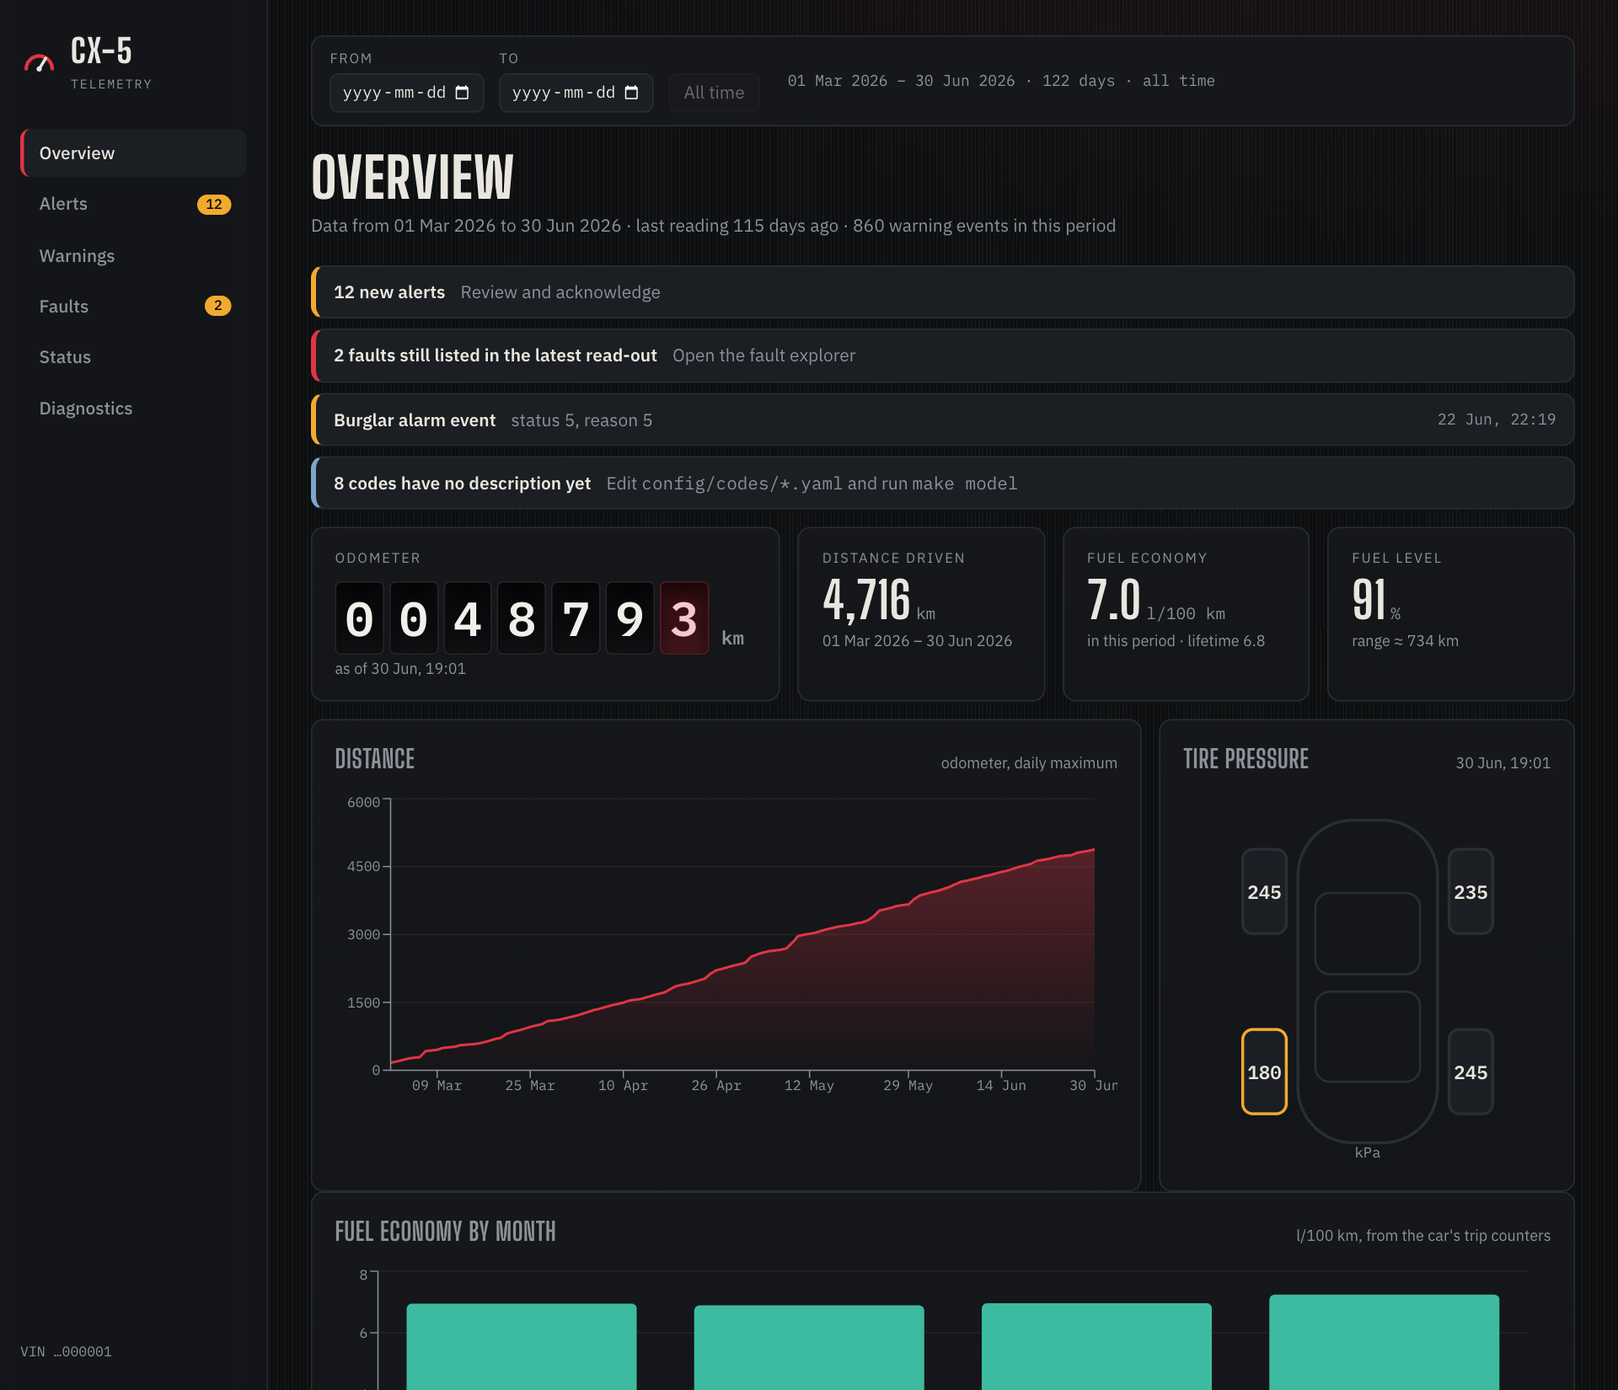
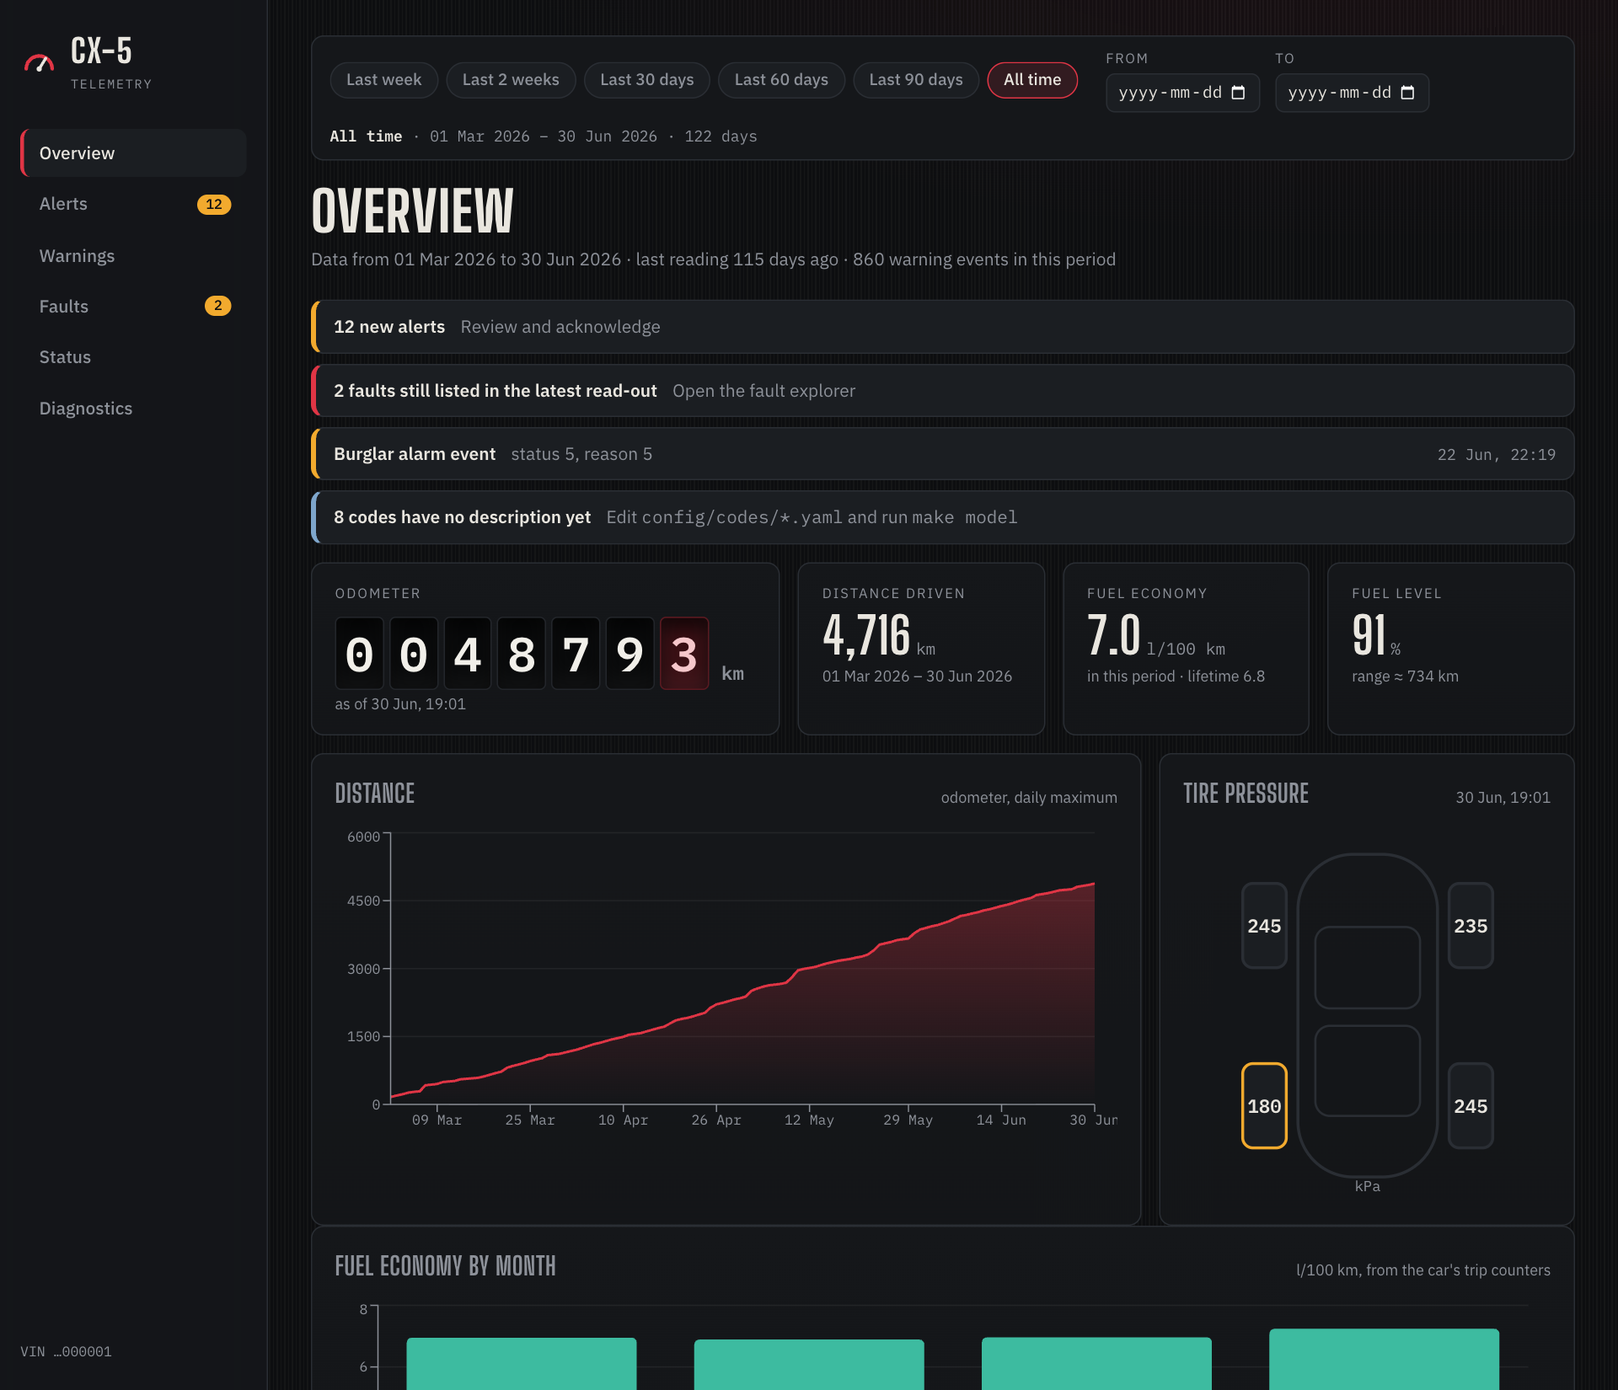
Changes related to milestone 9

diff --git a/frontend/src/components/DateRangeBar.tsx b/frontend/src/components/DateRangeBar.tsx
@@ -1,10 +1,18 @@
 import { useOverview, useSpan } from '../api/hooks'
-import { daysInRange, editRange, fmtDate } from '../lib'
-import { useDateRange } from '../range'
+import {
+  PRESETS,
+  daysInRange,
+  editRange,
+  fmtDate,
+  matchPreset,
+  resolvePreset,
+  type PresetId,
+} from '../lib'
+import { saveRangeChoice, useDateRange } from '../range'
 
 /** Period picker shown on the pages that describe a period. The range lives in the URL. */
 export function DateRangeBar() {
-  const { from, to, isFiltered, setRange, clear } = useDateRange()
+  const { from, to, isFiltered, setRange } = useDateRange()
   const span = useSpan().data
   const overview = useOverview().data
 
@@ -13,9 +21,35 @@ export function DateRangeBar() {
   const shownFrom = from ?? first
   const shownTo = to ?? last
   const days = shownFrom && shownTo ? daysInRange(shownFrom, shownTo) : undefined
+  const active = matchPreset({ from, to }, first, last)
+  const activeLabel = PRESETS.find((p) => p.id === active)?.label
+
+  const choose = (id: PresetId) => {
+    saveRangeChoice(id)
+    setRange(first && last ? resolvePreset(id, first, last) : {})
+  }
+  const edit = (which: 'from' | 'to', value: string) => {
+    saveRangeChoice('custom')
+    setRange(editRange({ from, to }, which, value))
+  }
 
   return (
     <div className="range-bar" role="group" aria-label="Period">
+      <fieldset className="presets" disabled={!span}>
+        <legend className="sr-only">Quick ranges, counted back from the newest data</legend>
+        {PRESETS.map((p) => (
+          <label key={p.id} className="preset">
+            <input
+              type="radio"
+              name="preset"
+              checked={active === p.id}
+              onChange={() => choose(p.id)}
+            />
+            <span>{p.label}</span>
+          </label>
+        ))}
+      </fieldset>
+
       <div className="range-inputs">
         <label>
           From
@@ -24,8 +58,7 @@ export function DateRangeBar() {
             value={from ?? ''}
             min={first}
             max={last}
-            placeholder={first}
-            onChange={(e) => setRange(editRange({ from, to }, 'from', e.target.value))}
+            onChange={(e) => edit('from', e.target.value)}
           />
         </label>
         <label>
@@ -35,29 +68,26 @@ export function DateRangeBar() {
             value={to ?? ''}
             min={first}
             max={last}
-            placeholder={last}
-            onChange={(e) => setRange(editRange({ from, to }, 'to', e.target.value))}
+            onChange={(e) => edit('to', e.target.value)}
           />
         </label>
-        <button onClick={clear} disabled={!isFiltered}>
-          All time
-        </button>
       </div>
-      <div className="range-summary mono">
+
+      <div className="range-summary mono" aria-live="polite">
         {shownFrom && shownTo ? (
           <>
-            {fmtDate(shownFrom)} – {fmtDate(shownTo)}
+            <b>{activeLabel ?? 'Custom range'}</b> · {fmtDate(shownFrom)} – {fmtDate(shownTo)}
             {days !== undefined && ` · ${days} day${days === 1 ? '' : 's'}`}
-            {!isFiltered && ' · all time'}
           </>
         ) : (
           'no data yet'
         )}
       </div>
+
       {isFiltered && overview && !overview.has_data_in_range && (
         <div className="range-empty" role="status">
           No data in this period. The data covers {fmtDate(first)} – {fmtDate(last)}.{' '}
-          <button onClick={clear}>Show all time</button>
+          <button onClick={() => choose('all')}>Show all time</button>
         </div>
       )}
     </div>

diff --git a/frontend/src/lib.test.ts b/frontend/src/lib.test.ts
@@ -1,11 +1,15 @@
 import { describe, expect, it } from 'vitest'
 import {
+  addDays,
   daysInRange,
   editRange,
   fmtAgo,
   fmtNum,
+  matchPreset,
   parseDay,
   pivotDaily,
+  resolvePreset,
+  restoreRange,
   sanitizeRange,
   signalLabel,
   signalValue,
@@ -91,5 +95,64 @@ describe('date range', () => {
     expect(editRange(r, 'from', '2026-06-01')).toEqual({ from: '2026-06-01', to: '2026-06-01' })
     expect(editRange(r, 'to', '2026-05-01')).toEqual({ from: '2026-05-01', to: '2026-05-01' })
     expect(editRange(r, 'to', '')).toEqual({ from: '2026-05-10', to: undefined })
+  })
+})
+
+describe('quick ranges', () => {
+  const first = '2026-03-01'
+  const last = '2026-10-22'
+
+  it('does calendar arithmetic across month, year and leap-day boundaries', () => {
+    expect(addDays('2026-03-01', -1)).toBe('2026-02-28')
+    expect(addDays('2024-03-01', -1)).toBe('2024-02-29')
+    expect(addDays('2025-12-31', 1)).toBe('2026-01-01')
+    expect(addDays('2026-10-22', -29)).toBe('2026-09-23')
+    expect(addDays('2026-03-29', 1)).toBe('2026-03-30') // across a clock change
+  })
+
+  it('counts back from the latest data day, both ends included', () => {
+    expect(resolvePreset('30d', first, last)).toEqual({ from: '2026-09-23', to: last })
+    expect(daysInRange('2026-09-23', last)).toBe(30)
+    expect(resolvePreset('week', first, last)).toEqual({ from: '2026-10-16', to: last })
+    expect(resolvePreset('fortnight', first, last)).toEqual({ from: '2026-10-09', to: last })
+    expect(resolvePreset('60d', first, last)).toEqual({ from: '2026-08-24', to: last })
+    expect(resolvePreset('90d', first, last)).toEqual({ from: '2026-07-25', to: last })
+  })
+
+  it('works when the window crosses a month or year end', () => {
+    expect(resolvePreset('30d', '2025-01-01', '2026-01-10')).toEqual({ from: '2025-12-12', to: '2026-01-10' })
+    expect(resolvePreset('week', '2026-01-01', '2026-03-03')).toEqual({ from: '2026-02-25', to: '2026-03-03' })
+  })
+
+  it('never starts before the first day with data', () => {
+    expect(resolvePreset('90d', '2026-10-01', last)).toEqual({ from: '2026-10-01', to: last })
+    expect(resolvePreset('week', '2026-10-20', last)).toEqual({ from: '2026-10-20', to: last })
+  })
+
+  it('treats All time as no bounds', () => {
+    expect(resolvePreset('all', first, last)).toEqual({})
+  })
+
+  it('recognises which preset a range is', () => {
+    expect(matchPreset({}, first, last)).toBe('all')
+    expect(matchPreset({ from: '2026-09-23', to: last }, first, last)).toBe('30d')
+    expect(matchPreset({ from: '2026-09-24', to: last }, first, last)).toBeUndefined() // custom
+    expect(matchPreset({ from: '2026-09-23' }, first, last)).toBeUndefined() // open end
+    expect(matchPreset({ from: '2026-09-23', to: last })).toBeUndefined() // span not loaded
+  })
+
+  it('picks the shortest preset when the data is shorter than several of them', () => {
+    // five days of data: every preset resolves to the whole span
+    const short = resolvePreset('90d', '2026-10-18', last)
+    expect(matchPreset(short, '2026-10-18', last)).toBe('week')
+  })
+
+  it('restores only a saved rolling preset, never all-time, custom or junk', () => {
+    expect(restoreRange('30d', first, last)).toEqual({ from: '2026-09-23', to: last })
+    expect(restoreRange('all', first, last)).toBeUndefined()
+    expect(restoreRange('custom', first, last)).toBeUndefined()
+    expect(restoreRange('nonsense', first, last)).toBeUndefined()
+    expect(restoreRange(null, first, last)).toBeUndefined()
+    expect(restoreRange('30d', null, null)).toBeUndefined() // no data yet
   })
 })

diff --git a/frontend/src/lib.ts b/frontend/src/lib.ts
@@ -157,3 +157,56 @@ export function editRange(range: DayRange, edited: 'from' | 'to', value: string)
   if (day && edited === 'to' && next.from && day < next.from) next.from = day
   return next
 }
+
+// ---- quick ranges ----
+// Presets count back from the most recent day with data, not from today: an export is a
+// snapshot, so "last 30 days" counted from today would be empty a few weeks after the export.
+
+export type PresetId = 'week' | 'fortnight' | '30d' | '60d' | '90d' | 'all'
+
+export const PRESETS: { id: PresetId; label: string; days: number | null }[] = [
+  { id: 'week', label: 'Last week', days: 7 },
+  { id: 'fortnight', label: 'Last 2 weeks', days: 14 },
+  { id: '30d', label: 'Last 30 days', days: 30 },
+  { id: '60d', label: 'Last 60 days', days: 60 },
+  { id: '90d', label: 'Last 90 days', days: 90 },
+  { id: 'all', label: 'All time', days: null },
+]
+
+/** `day` shifted by `delta` calendar days (UTC, so daylight saving cannot interfere). */
+export function addDays(day: string, delta: number): string {
+  return new Date(Date.parse(`${day}T00:00:00Z`) + delta * 86_400_000).toISOString().slice(0, 10)
+}
+
+/**
+ * The range a preset stands for: its last `days` days ending on the latest day with data,
+ * never starting before the first day with data. "All time" has no bounds.
+ */
+export function resolvePreset(id: PresetId, first: string, last: string): DayRange {
+  const days = PRESETS.find((p) => p.id === id)?.days
+  if (!days) return {}
+  const start = addDays(last, -(days - 1))
+  return { from: start < first ? first : start, to: last }
+}
+
+/**
+ * Which preset the current range is, if any. A range without bounds is "All time". Otherwise
+ * the shortest preset that resolves to exactly these days wins (with very little data several
+ * presets coincide); anything else is a custom range.
+ */
+export function matchPreset(range: DayRange, first?: string, last?: string): PresetId | undefined {
+  if (!range.from && !range.to) return 'all'
+  if (!first || !last) return undefined
+  return PRESETS.find((p) => {
+    if (p.id === 'all') return false
+    const r = resolvePreset(p.id, first, last)
+    return r.from === range.from && r.to === range.to
+  })?.id
+}
+
+/** What to restore on load from the saved choice: only presets are rolling and worth keeping. */
+export function restoreRange(saved: string | null, first?: string | null, last?: string | null): DayRange | undefined {
+  const preset = PRESETS.find((p) => p.id === saved)
+  if (!preset || preset.id === 'all' || !first || !last) return undefined
+  return resolvePreset(preset.id, first, last)
+}

diff --git a/frontend/src/range.ts b/frontend/src/range.ts
@@ -1,6 +1,7 @@
-import { useMemo } from 'react'
+import { useEffect, useMemo, useRef } from 'react'
 import { useSearchParams } from 'react-router-dom'
-import { sanitizeRange, type DayRange } from './lib'
+import { useSpan } from './api/hooks'
+import { restoreRange, sanitizeRange, type DayRange, type PresetId } from './lib'
 
 /**
  * The selected period lives in the address (`?from=2026-06-12&to=2026-07-12`) so that a view can
@@ -36,4 +37,42 @@ export function useRangeSearch(): string {
   if (to) p.set('to', to)
   const s = p.toString()
   return s ? `?${s}` : ''
+}
+
+const STORAGE_KEY = 'cx5.range'
+
+/** The last choice: a preset id, or 'custom' for typed dates (dates would be stale next time). */
+export function saveRangeChoice(choice: PresetId | 'custom'): void {
+  try {
+    localStorage.setItem(STORAGE_KEY, choice)
+  } catch {
+    /* storage can be blocked (private window); the app works without it */
+  }
+}
+
+function loadRangeChoice(): string | null {
+  try {
+    return localStorage.getItem(STORAGE_KEY)
+  } catch {
+    return null
+  }
+}
+
+/**
+ * On the first load without a period in the address, bring back the last preset the user chose
+ * (counted from the newest data, so "Last 30 days" still means the newest 30 days after a new
+ * export). Runs once, so choosing "All time" afterwards is not undone.
+ */
+export function useRestoreSavedRange() {
+  const { isFiltered, setRange } = useDateRange()
+  const span = useSpan().data
+  const done = useRef(false)
+
+  useEffect(() => {
+    if (done.current || !span) return
+    done.current = true
+    if (isFiltered) return // a shared or bookmarked address wins over the saved choice
+    const restored = restoreRange(loadRangeChoice(), span.first_day, span.last_day)
+    if (restored) setRange(restored)
+  }, [span, isFiltered, setRange])
 }

diff --git a/frontend/src/index.css b/frontend/src/index.css
@@ -240,5 +240,19 @@ input[type='date'] {
   font: inherit; font-family: var(--mono); font-size: 13px; color: var(--text); background: var(--panel-2);
   border: 1px solid var(--line); border-radius: 7px; padding: 4px 8px; color-scheme: inherit;
 }
-.range-summary { font-size: 12px; color: var(--muted); }
+.range-summary { font-size: 12px; color: var(--muted); flex-basis: 100%; }
+.range-summary b { color: var(--text); font-weight: 600; }
+.sr-only { position: absolute; width: 1px; height: 1px; margin: -1px; padding: 0; overflow: hidden; clip: rect(0 0 0 0); border: 0; white-space: nowrap; }
+fieldset.presets { display: flex; flex-wrap: wrap; gap: 6px; border: 0; margin: 0; padding: 0; min-width: 0; }
+.preset { position: relative; cursor: pointer; }
+.preset input { position: absolute; opacity: 0; inset: 0; margin: 0; cursor: pointer; }
+.preset span {
+  display: inline-block; padding: 4px 12px; border-radius: 99px; border: 1px solid var(--line);
+  background: var(--panel-2); color: var(--muted); font-size: 13px; font-weight: 500; white-space: nowrap;
+}
+.preset:hover span { color: var(--text); border-color: var(--muted); }
+.preset input:checked + span { color: var(--text); border-color: var(--accent); background: var(--accent-soft); }
+.preset input:focus-visible + span { outline: 2px solid var(--steel); outline-offset: 2px; }
+fieldset.presets:disabled .preset { opacity: 0.5; cursor: default; }
+@media (max-width: 640px) { .preset span { padding: 6px 12px; } .range-inputs { width: 100%; } .range-inputs label { flex: 1; } input[type='date'] { width: 100%; } }
 .range-empty { flex-basis: 100%; color: var(--amber); font-size: 13px; }

diff --git a/frontend/src/App.tsx b/frontend/src/App.tsx
@@ -2,6 +2,7 @@ import { Route, Routes, useLocation } from 'react-router-dom'
 import { useOverview } from './api/hooks'
 import { DateRangeBar } from './components/DateRangeBar'
 import { RangeNavLink as NavLink } from './components/RangeLink'
+import { useRestoreSavedRange } from './range'
 import Alerts from './pages/Alerts'
 import Diagnostics from './pages/Diagnostics'
 import Faults from './pages/Faults'
@@ -26,6 +27,7 @@ const PERIOD_PAGES = ['/', '/warnings', '/faults', '/status']
 export default function App() {
   const overview = useOverview()
   const { pathname } = useLocation()
+  useRestoreSavedRange()
   const o = overview.data
   return (
     <div className="shell">

diff --git a/CLAUDE.md b/CLAUDE.md
@@ -4,7 +4,7 @@ This file provides guidance to Claude Code (claude.ai/code) when working with co
 
 ## Current state
 
-The repository so far has a `uv` backend skeleton (`backend/`: profiling script and the `mazda_dash.ingest` package; milestones M1–M8 done; React frontend in `frontend/`) and raw data in `data/` (gitignored). Follow `PLAN.md` milestone by milestone. Commands (from repo root): `make setup`, `make profile` (writes `docs/profile/`, gitignored), `make ingest` (loads `data/` into `db/mazda.duckdb`, idempotent), `make model` (reload `config/codes/*.yaml` and recreate views), `make unmapped` (codes lacking a description), `make alerts` (evaluate `config/alerts.yaml`; also run by `make ingest`, skip with `--no-alerts`), `make reset-db` (also wipes alert statuses), `make dev` (API :8000 + Vite :5173; open http://localhost:5173), `make api` / `make web` separately, `make types` (regenerate `frontend/src/api/schema.d.ts` after changing API models), `make test` / `make lint` (backend and frontend), `make test`, `make lint`, `make format`.
+The repository so far has a `uv` backend skeleton (`backend/`: profiling script and the `mazda_dash.ingest` package; milestones M1–M9 done; React frontend in `frontend/`) and raw data in `data/` (gitignored). Follow `PLAN.md` milestone by milestone. Commands (from repo root): `make setup`, `make profile` (writes `docs/profile/`, gitignored), `make ingest` (loads `data/` into `db/mazda.duckdb`, idempotent), `make model` (reload `config/codes/*.yaml` and recreate views), `make unmapped` (codes lacking a description), `make alerts` (evaluate `config/alerts.yaml`; also run by `make ingest`, skip with `--no-alerts`), `make reset-db` (also wipes alert statuses), `make dev` (API :8000 + Vite :5173; open http://localhost:5173), `make api` / `make web` separately, `make types` (regenerate `frontend/src/api/schema.d.ts` after changing API models), `make test` / `make lint` (backend and frontend), `make test`, `make lint`, `make format`.
 
 ## Data overview (`data/`)
 
@@ -57,3 +57,5 @@ API: `/api/diag/reports` (+ `/{id}`, `/{id}/frames`) and `/api/diag/compare?a=&b
 ## Date range
 
 Period-based endpoints take optional `from` / `to` query params (inclusive UTC days) through the `date_range` dependency in `backend/src/mazda_dash/api/dates.py`; `DateRange.clause(col)` returns the SQL fragment. A new period-based endpoint should use it and be added to `PERIOD_ENDPOINTS` in `tests/test_date_range.py`, which asserts that a range covering everything changes nothing and that an empty range returns empty results, not errors. State endpoints (active faults, alerts, diagnostics, code lookups) must not use it. Some views are re-aggregated inside the endpoint to honour the range (`fuel/monthly`, `warnings/frequency`, `dtcs/frequency`): keep them in step with `v_fuel_monthly`, `v_warning_frequency`, `v_dtc_frequency`. `dtcs/frequency` always lists faults that are active in the latest read-out. Frontend: the range lives in the URL (`frontend/src/range.ts`, `useDateRange`), every period-based hook in `api/hooks.ts` calls `useRangeQuery()` and puts it in its query key, and pages link with `RangeLink` / `RangeNavLink` so the range is carried along. `DateRangeBar` is rendered for the pages in `PERIOD_PAGES` in `App.tsx`. Pure helpers (`sanitizeRange`, `editRange`, `daysInRange`) are in `lib.ts` with tests.
+
+Quick ranges (M9): the preset maths is pure and tested in `lib.ts` (`PRESETS`, `resolvePreset`, `matchPreset`, `restoreRange`); presets count back from the newest day with data (`/api/span`), inclusive, clamped to the first day. The URL always holds explicit `from`/`to`; which preset is highlighted is derived by matching, so there is no separate preset state to drift. The last choice is stored in `localStorage` (`cx5.range`: a preset id, `all` or `custom`) and `useRestoreSavedRange` (in `range.ts`, called from `App`) re-applies a saved preset once per page load, only when the address has no period. The bar uses native radio inputs for keyboard support.

diff --git a/README.md b/README.md
@@ -49,9 +49,12 @@ Open <http://localhost:5173>.
 3. `make dev`: starts the API (`:8000`) and the dashboard (`:5173`).
 
 **Looking at a period.** The bar at the top of the Overview, Warnings, Faults and Status pages
-limits everything to a *from – to* range of days (UTC, both included). The range is kept in
-the address, so you can bookmark it, and it follows you from page to page. "All time" clears
-it. Things that describe a *state* ignore the range: the faults still active in the latest
+limits everything to a *from – to* range of days (UTC, both included). Use the quick buttons
+(Last week, Last 2 weeks, Last 30 / 60 / 90 days, All time) or type your own dates. Quick
+ranges count back from your **newest data**, not from today, so they still make sense when
+your last export is a few weeks old, and your last quick choice is remembered in the browser.
+The range is kept in the address, so you can bookmark it (a link with dates always wins over
+the remembered choice), and it follows you from page to page. Things that describe a *state* ignore the range: the faults still active in the latest
 read-out, the alerts list and the diagnostic-tool report.
 
 Run `make unmapped` to see warning and fault codes that have no description yet, then add what

diff --git a/PLAN.md b/PLAN.md
@@ -89,7 +89,7 @@ Lets you look at any period instead of "everything". Requested after M7.
 - **Edge cases:** a range with no data shows a clear empty state instead of blank charts; the range survives navigation between pages; a range outside the data is explained.
 - **Done when:** picking a range changes every period-based chart, table and tile consistently, tests pass, and the demo data shows it working.
 
-### M9 — Quick ranges (presets)
+### M9 — Quick ranges (presets) ✅ done
 Buttons next to the date inputs; built on M8.
 - Presets: **Last week**, **Last 2 weeks**, **Last 30 days**, **Last 60 days**, **Last 90 days**, **All time**. The active preset is highlighted; editing a date manually clears the highlight (custom range).
 - **Decision to confirm:** presets count back from the **most recent data point**, not from today. Your exports are a snapshot, so "last 30 days" relative to today would be empty as soon as a few weeks pass without a new export. The bar shows the resolved dates ("Last 30 days · 23 Sep – 22 Oct") so it is never ambiguous.
